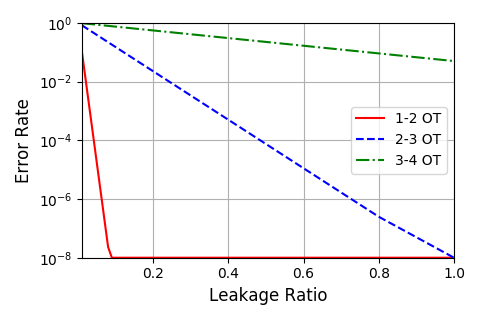
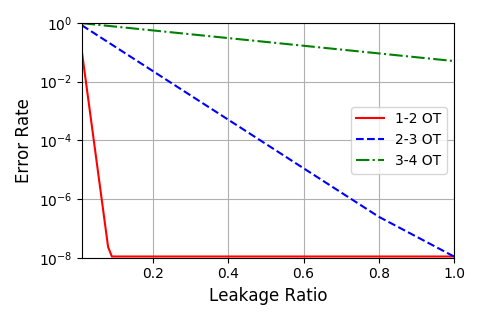
update

Changed region(s): [[0.2188, 0.75, 0.9688, 0.8125], [0.8438, 0.7188, 0.875, 0.75], [0.8125, 0.6875, 0.8438, 0.7188]]

diff --git a/MatchTest/receiver-num/plot-collusion.py b/MatchTest/receiver-num/plot-collusion.py
@@ -6,17 +6,17 @@ import numpy as np
 
 df1 = pd.read_csv("collusion-result/3.txt", sep=" ")
 df1["acc"] = 1 - df1["acc"]
-df1.loc[df1["acc"] < 0.00000001, "acc"] = 0.00000001
+df1.loc[df1["acc"] < 0.00000001, "acc"] = 0.000000011
 print(df1.head())
 
 df2 = pd.read_csv("collusion-result/6.txt", sep=" ")
 df2["acc"] = 1 - df2["acc"]
-df2.loc[df2["acc"] < 0.00000001, "acc"] = 0.00000001
+df2.loc[df2["acc"] < 0.00000001, "acc"] = 0.000000011
 print(df2.head())
 
 df3 = pd.read_csv("collusion-result/9.txt", sep=" ")
 df3["acc"] = 1 - df3["acc"]
-df3.loc[df3["acc"] < 0.00000001, "acc"] = 0.00000001
+df3.loc[df3["acc"] < 0.00000001, "acc"] = 0.000000011
 print(df3.head())
 
 fig = plt.figure()

diff --git a/MatchTest/collusion-ratio-result/plot-ratio.py b/MatchTest/collusion-ratio-result/plot-ratio.py
@@ -6,17 +6,17 @@ import numpy as np
 
 df1 = pd.read_csv("910199+901199", sep=" ")
 df1["acc"] = 1 - df1["acc"]
-df1.loc[df1["acc"] < 0.00000001, "acc"] = 0.00000001
+df1.loc[df1["acc"] < 0.00000001, "acc"] = 0.000000011
 print(df1.head())
 
 df2 = pd.read_csv("111111", sep=" ")
 df2["acc"] = 1 - df2["acc"]
-df2.loc[df2["acc"] < 0.00000001, "acc"] = 0.00000001
+df2.loc[df2["acc"] < 0.00000001, "acc"] = 0.000000011
 print(df2.head())
 
 df3 = pd.read_csv("999119", sep=" ")
 df3["acc"] = 1 - df3["acc"]
-df3.loc[df3["acc"] < 0.00000001, "acc"] = 0.00000001
+df3.loc[df3["acc"] < 0.00000001, "acc"] = 0.000000011
 print(df3.head())
 
 fig = plt.figure()

diff --git a/MatchTest/non-collusion-result/plot-alloc.py b/MatchTest/non-collusion-result/plot-alloc.py
@@ -6,7 +6,7 @@ import numpy as np
 
 df = pd.read_csv("single-leaker-alloc-1-2.txt", sep=" ")
 df["acc"] = 1 - df["acc"]
-df.loc[df["acc"] < 0.00000001, "acc"] = 0.00000001
+df.loc[df["acc"] < 0.00000001, "acc"] = 0.000000011
 print(df.head())
 
 fig = plt.figure()

diff --git a/MatchTest/non-collusion-result/plot-ot.py b/MatchTest/non-collusion-result/plot-ot.py
@@ -6,7 +6,7 @@ import numpy as np
 
 df = pd.read_csv("single-leaker-ot.txt", sep=" ")
 df["acc"] = 1 - df["acc"]
-df.loc[df["acc"] < 0.00000001, "acc"] = 0.00000001
+df.loc[df["acc"] < 0.00000001, "acc"] = 0.000000011
 print(df.head(20))
 
 fig = plt.figure()

diff --git a/MatchTest/non-collusion-result/plot-ratio.py b/MatchTest/non-collusion-result/plot-ratio.py
@@ -6,7 +6,7 @@ import numpy as np
 
 df = pd.read_csv("single-leaker-ot.txt", sep=" ")
 df["acc"] = 1 - df["acc"]
-df.loc[df["acc"] < 0.00000001, "acc"] = 0.00000001
+df.loc[df["acc"] < 0.00000001, "acc"] = 0.000000011
 print(df.head(20))
 
 fig = plt.figure()

diff --git a/MatchTest/sender-leakage-result/plot-alloc.py b/MatchTest/sender-leakage-result/plot-alloc.py
@@ -6,7 +6,7 @@ import numpy as np
 
 df = pd.read_csv("sender-alloc-1-2.txt", sep=" ")
 df["acc"] = 1 - df["acc"]
-df.loc[df["acc"] < 0.00000001, "acc"] = 0.00000001
+df.loc[df["acc"] < 0.00000001, "acc"] = 0.000000011
 print(df.head())
 
 fig = plt.figure()

diff --git a/MatchTest/collusion-ot-result/plot-ot.py b/MatchTest/collusion-ot-result/plot-ot.py
@@ -6,7 +6,7 @@ import numpy as np
 
 df = pd.read_csv("910199+901199", sep=" ")
 df["acc"] = 1 - df["acc"]
-df.loc[df["acc"] < 0.00000001, "acc"] = 0.00000001
+df.loc[df["acc"] < 0.00000001, "acc"] = 0.000000011
 print(df.head(20))
 
 fig = plt.figure()

diff --git a/MatchTest/sender-leakage-result/plot-ot.py b/MatchTest/sender-leakage-result/plot-ot.py
@@ -6,7 +6,7 @@ import numpy as np
 
 df = pd.read_csv("sender-ot.txt", sep=" ")
 df["acc"] = 1 - df["acc"]
-df.loc[df["acc"] < 0.00000001, "acc"] = 0.00000001
+df.loc[df["acc"] < 0.00000001, "acc"] = 0.000000011
 print(df.head(20))
 
 fig = plt.figure()

diff --git a/MatchTest/sender-leakage-result/plot-ratio.py b/MatchTest/sender-leakage-result/plot-ratio.py
@@ -6,7 +6,7 @@ import numpy as np
 
 df = pd.read_csv("sender-ot.txt", sep=" ")
 df["acc"] = 1 - df["acc"]
-df.loc[df["acc"] < 0.00000001, "acc"] = 0.00000001
+df.loc[df["acc"] < 0.00000001, "acc"] = 0.000000011
 print(df.head(20))
 
 fig = plt.figure()

diff --git a/MatchTest/collusion-alloc-result/plot-alloc.py b/MatchTest/collusion-alloc-result/plot-alloc.py
@@ -6,7 +6,7 @@ import numpy as np
 
 df = pd.read_csv("910199+901199", sep=" ")
 df["acc"] = 1 - df["acc"]
-df.loc[df["acc"] < 0.00000001, "acc"] = 0.00000001
+df.loc[df["acc"] < 0.00000001, "acc"] = 0.000000011
 print(df.head())
 
 fig = plt.figure()
